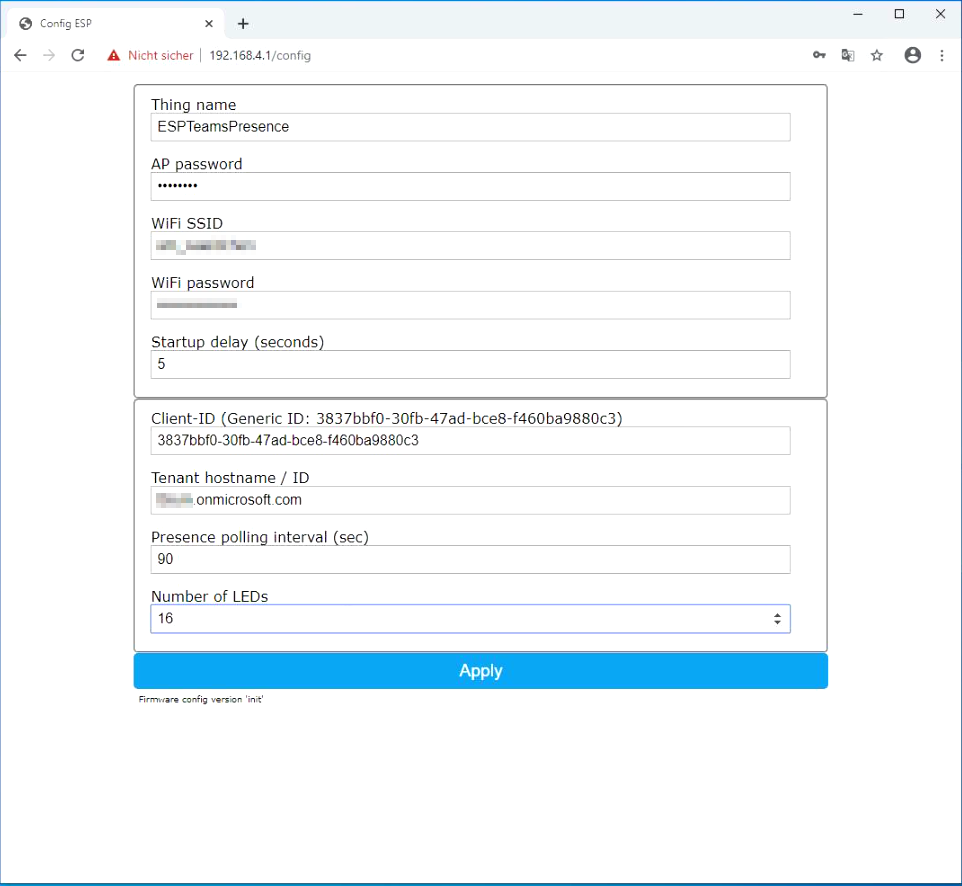
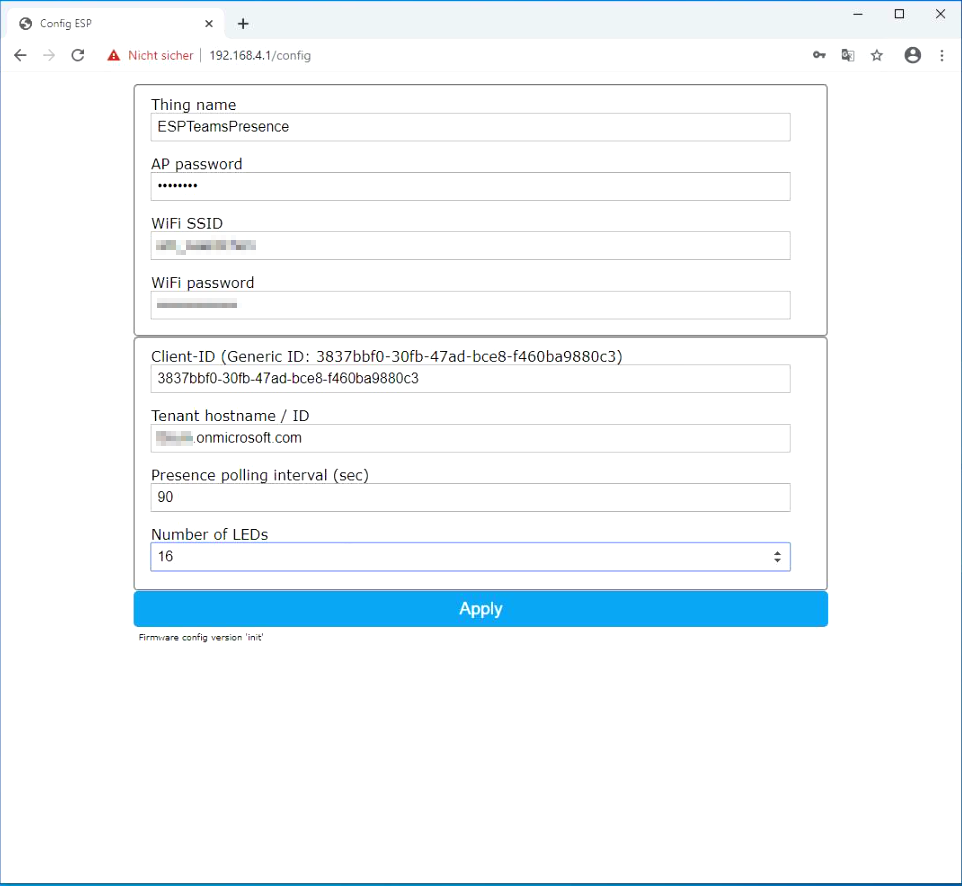
Update documentation

Changed region(s): [[0.1247, 0.3657, 0.8732, 0.7923]]

diff --git a/docs/build/setup.md b/docs/build/setup.md
@@ -5,10 +5,11 @@ After you flashed the software, you need to setup the device to connect to your 
 This video shows the build and setup process:  
 <iframe width="560" height="315" src="https://www.youtube.com/embed/DH3zN3nLk9w" frameborder="0" allow="accelerometer; autoplay; encrypted-media; gyroscope; picture-in-picture" allowfullscreen></iframe>
 
+**Note:** Starting with v0.12.0 the process is simplified. "Startup delay" option is removed and proper defaults are supplied.
 
 ## Step 1: Connect to device hotspot
 
-After you flashed your presence device, please power-cycle it once and wait for a few seconds. The device opens a own WiFi hotspot now. The name is "ESPTeamsPresence". You should be able to connect to it using your phone or any other WiFi-enabled device. The network is password-protected, use "presence" as password. It takes some seconds and you should be connected. This presence device may show a blue running light animation on the neopixels.
+After you flashed your presence device, please power-cycle it once and wait for a few seconds. The device opens a own WiFi hotspot now. The name is "ESPTeamsPresence". You should be able to connect to it using your phone or any other WiFi-enabled device. The network is password-protected, use "presence" as password. It takes some seconds and you should be connected. This presence device shows a white running light animation.
 
 ![Device hotspot](https://github.com/toblum/ESPTeamsPresence/raw/master/docs/pics/device_hotspot.png)
 
@@ -17,25 +18,25 @@ After you flashed your presence device, please power-cycle it once and wait for 
 
 Now open a browser on the device / phone that is connected to the hotspot and open the following URL: http://192.168.4.1/config
 
-The configuration UI of the device should open nowt that looks like this:  
+The configuration UI of the device should open now. It looks like this:  
 ![Device hotspot](https://github.com/toblum/ESPTeamsPresence/raw/master/docs/pics/device_config.png)
 
+Please provide the following data:
 
-- Thing name:  
+- Thing name (required):  
   Name of the device and used as the name for the hotspot.  
   This name is also used as the hostname of the device. If the name is e.g. ESPTeamsPresence, you should be able to open the web interface via http://ESPTeamsPresence.local  
   Change this if you're using more than one device. 
-- AP password:  
-  Password for the device hotspot and the configuration UI. Default is "presence", change it as you like.
-- WiFi SSID:  
+- AP password (required):  
+  Password for the device hotspot and the configuration UI. Default is "presence", change it as you like. 
+- WiFi SSID (required):  
   The SSID of your local home WiFi. After setup, the device will connect to it and you will be able to reach the device locally, the device will also use your wifi to talk to the Azure cloud to get your Teams presence status.
-- WiFi password:  
+- WiFi password (required):  
   The password of your local WiFi hotspot.
-- Startup delay:
-  The number of seconde the device will open the local hotspot when powering up before it connects to your home WiFi. Set this to a low value, e.g. 5 seconds.
+
 
 - Client-ID:  
-  Client-ID of the Azure App that is used to connect to Teams. You can use the Generic-ID 3837bbf0-30fb-47ad-bce8-f460ba9880c3 or setup your own Azure App. The Generic-ID should work fine in most cases. It's a multi-tenant app I registered that you can use instead registering your own Azure app (what's also possible).
+  Client-ID of the Azure App that is used to connect to Teams. You can use the generic ID 3837bbf0-30fb-47ad-bce8-f460ba9880c3 or setup your own Azure App. The generic ID should work fine in most cases. It's a multi-tenant app that I registered. You can use it instead of registering your own Azure app (what's also possible).
 - Tenant hostname / ID:  
   Hostname of your tenant, e.g. contoso.onmicrosoft.com. You can also use the tenant GUID.
 - Presence polling interval (sec):  
@@ -43,20 +44,20 @@ The configuration UI of the device should open nowt that looks like this:
 - Number of LEDs:  
   The number of LEDs in neopixel ring / strip.
 
-Click "Apply" to save everything.
+Click "Apply" to save everything. Disconnect from the device WiFi. Power cycle the device to restart it.
 
+Power cycle the presence device once and wait some time. The LEDs should now:
+- Show a white running animation when the device is powered on or is in AP mode for WiFi setup.
+- Show a blue running animation while it's connecting to Wifi.
+- Show a green running animation while it's waiting for Azure credentials.
 
 ## Step 3: Get IP / hostname of the device in your home network
 
 Usually you should be able to reach the device via it's thingname you set up in the last step: http://\<thingname>.local/ --> e.g. http://espteamspresence.local/.  
-This should work in most environments, but if not, you can reach it via it's IP address.
+This should work in most environments, but if not, you can reach it via it's IP address (see below).
 
-Power cycle the presence device once and wait some time. The LEDs should now:
-- Glow white when the device is powered on
-- Show a blue running animation while it's connecting to Wifi.
-- Show a red running animation while it's trying to connect to the Azure App.
-
-While that happens, keep the serial monitor of the "ESP32 Flash Tool" open and you should see the following output and the IP the device has been assigned:  
+**If you need to find out the IP address of the device:**  
+While restarting, keep the serial monitor of the "ESP32 Flash Tool" open and you should see the following output and the IP the device has been assigned:  
 ![Device IP](https://github.com/toblum/ESPTeamsPresence/raw/master/docs/pics/device_ip.png)
 
 Alternatively you should be able to get the IP from your routers interface or by using a app like [Fing](https://www.fing.com/products/fing-app).
@@ -64,12 +65,12 @@ Alternatively you should be able to get the IP from your routers interface or by
 
 ## Step 4: Connect to the Azure App using device login flow
 
-Make sure that you're connected to your home WiFi again, then open the IP in the browser, e.g. http://192.168.0.84/ 
+Make sure that you're connected to your home WiFi again, then open the interface in the browser, e.g. http://espteamspresence.local/ or http://192.168.0.84/ as described in the last step.
 
 You should now see the retro-style UI of the presence device:  
 ![Device login](https://github.com/toblum/ESPTeamsPresence/raw/master/docs/pics/device_login_1.png)
 
-It should say "No authentication infos found, start device login flow to complete widget setup!". So click "Start device login". The LEDs should show a running purple animation.
+It should say "No authentication infos found, start device login flow to complete widget setup!". Click "Start device login". The LEDs should show now a running purple animation.
 
 A popup opens up:  
 ![Device login](https://github.com/toblum/ESPTeamsPresence/raw/master/docs/pics/device_login_2.png)
@@ -88,6 +89,6 @@ It asks you to consent that the Azure App, that the presence device uses in the 
 
 If you have some admin role in Azure AD you may see the "Consent in the name of your organization" checkbox. If you tick this, other users in your tenant don't need to consent on their own.
 
-Click "Accept" and you should be done. The access tokens (only the tokens, no personal credentials) are now stored on the device. The token is refreshed automatically, if needed, in the future.
+Click "Accept" and you should be done. The access tokens (only the tokens, no personal credentials) are now stored on the device. The token is refreshed automatically, if needed, in the future. Everything the token is refreshed, the device shows a running red animation for a short time.
 
-The presence device should now get presence information and light up in the color of your presence.
+The presence device should now receive presence information and light up in the color of your presence.
